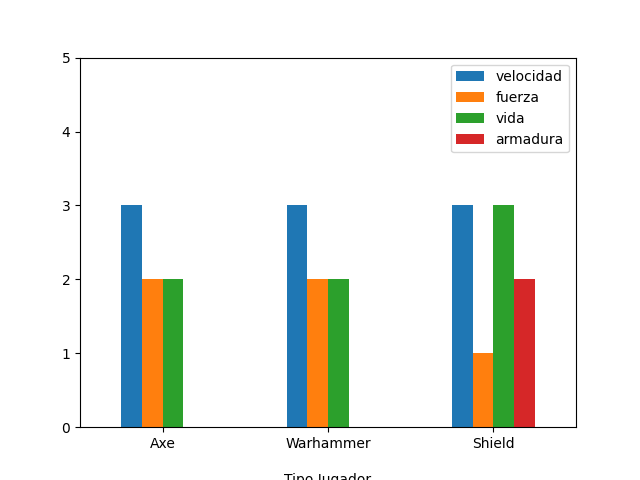
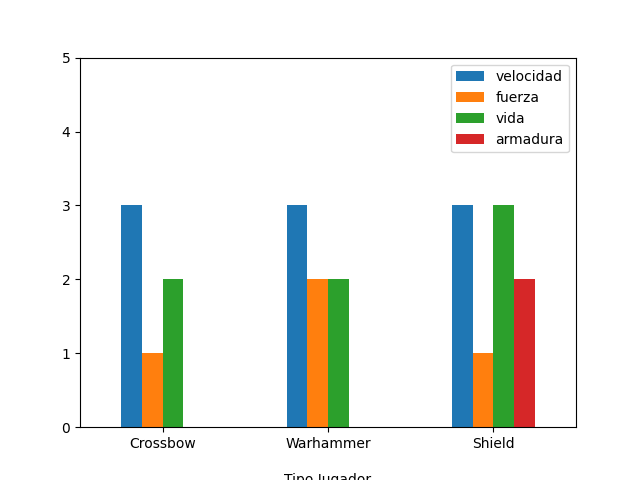
Version 16/02

Changed region(s): [[0.2188, 0.5625, 0.2812, 0.75], [0.1875, 0.9062, 0.3125, 0.9375]]

diff --git a/Interficie/server/index.js b/Interficie/server/index.js
@@ -158,15 +158,32 @@ app.post("/getSession", async (req, res) => {
 
 
 /* =========== SOCKETS MULTIJUGADOR =========== */
+
+var jugadores = []
+
 //Controlar les connexions i desconnexions
-io.on('connection', (socket) =>{
-    console.log("Player connected");
-    socket.emit('socketID', { id: socket.id })
-    socket.broadcast.emit('newPlayer', { id: socket.id });
-    socket.on('disconnect', () => {
+io.on('connection', (socketJugador) =>{
+    
+    socketJugador.on('user_con', (dadesJug) => {
+        socketJugador.username = dadesJug.username;
+        console.log('Se ha conectado ' + dadesJug.username + ", Tipo: " + dadesJug.tipo);
+        jugadores.push(new jugador(socketJugador.id, dadesJug.tipo, dadesJug.x, dadesJug.y))
+        console.log(jugadores);
+    })
+
+    socketJugador.emit('socketID', { id: socketJugador.id })
+
+    socketJugador.on('disconnect', () => {
         console.log('user disconnected');
     });
 });
+
+function jugador(id, tipo, x, y){
+    this.id = id;
+    this.tipo = tipo;
+    this.x = x;
+    this.y = y;
+}
 
 server.listen(SOCKET_PORT, () => {
     console.log("Sockets Running [" + SOCKET_PORT + "]");

diff --git a/Interficie/server/database/create.js b/Interficie/server/database/create.js
@@ -30,16 +30,16 @@ const insertPartida = function (partida, callback) {
 const insertStats = function (callback) {
     //Afegir 5 docuemnts per Axe, War, Shield, Zombie, Boss els que venen ja fets amb el joc
 
-    const statsAxe = new Stats({
-        nombreTipo: "Axe",
+    const statsCrossbow = new Stats({
+        nombreTipo: "Crossbow",
         velocidad: 3,
-        fuerza: 2,
+        fuerza: 1,
         vida: 2,
         armadura: 0
     })
-    statsAxe.save(function (err) {
-        if (err) return console.log("Ya existen las stats de AXE");
-        console.log("¡Stats de AXE insertadas!");
+    statsCrossbow.save(function (err) {
+        if (err) return console.log("Ya existen las stats de CROSSBOW");
+        console.log("¡Stats de CROSSBOW insertadas!");
     })
 
     const statsWar = new Stats({

diff --git a/Interficie/server/database/connection.js b/Interficie/server/database/connection.js
@@ -3,8 +3,8 @@ const autoIncrement = require("mongoose-auto-increment")
 
 autoIncrement.initialize(mongoose.connection)
 
-const URL = 'mongodb://a19nargomcar2:paco1234@labs.inspedralbes.cat:7010/?tls=false&authMechanism=DEFAULT&authSource=DAMA_Grup1'
-//const URL = 'mongodb://localhost:27017/DAMA_Grup1'
+//const URL = 'mongodb://a19nargomcar2:paco1234@labs.inspedralbes.cat:7010/?tls=false&authMechanism=DEFAULT&authSource=DAMA_Grup1'
+const URL = 'mongodb://localhost:27017/DAMA_Grup1'
 const options = {
     dbName: 'DAMA_Grup1',
 };
